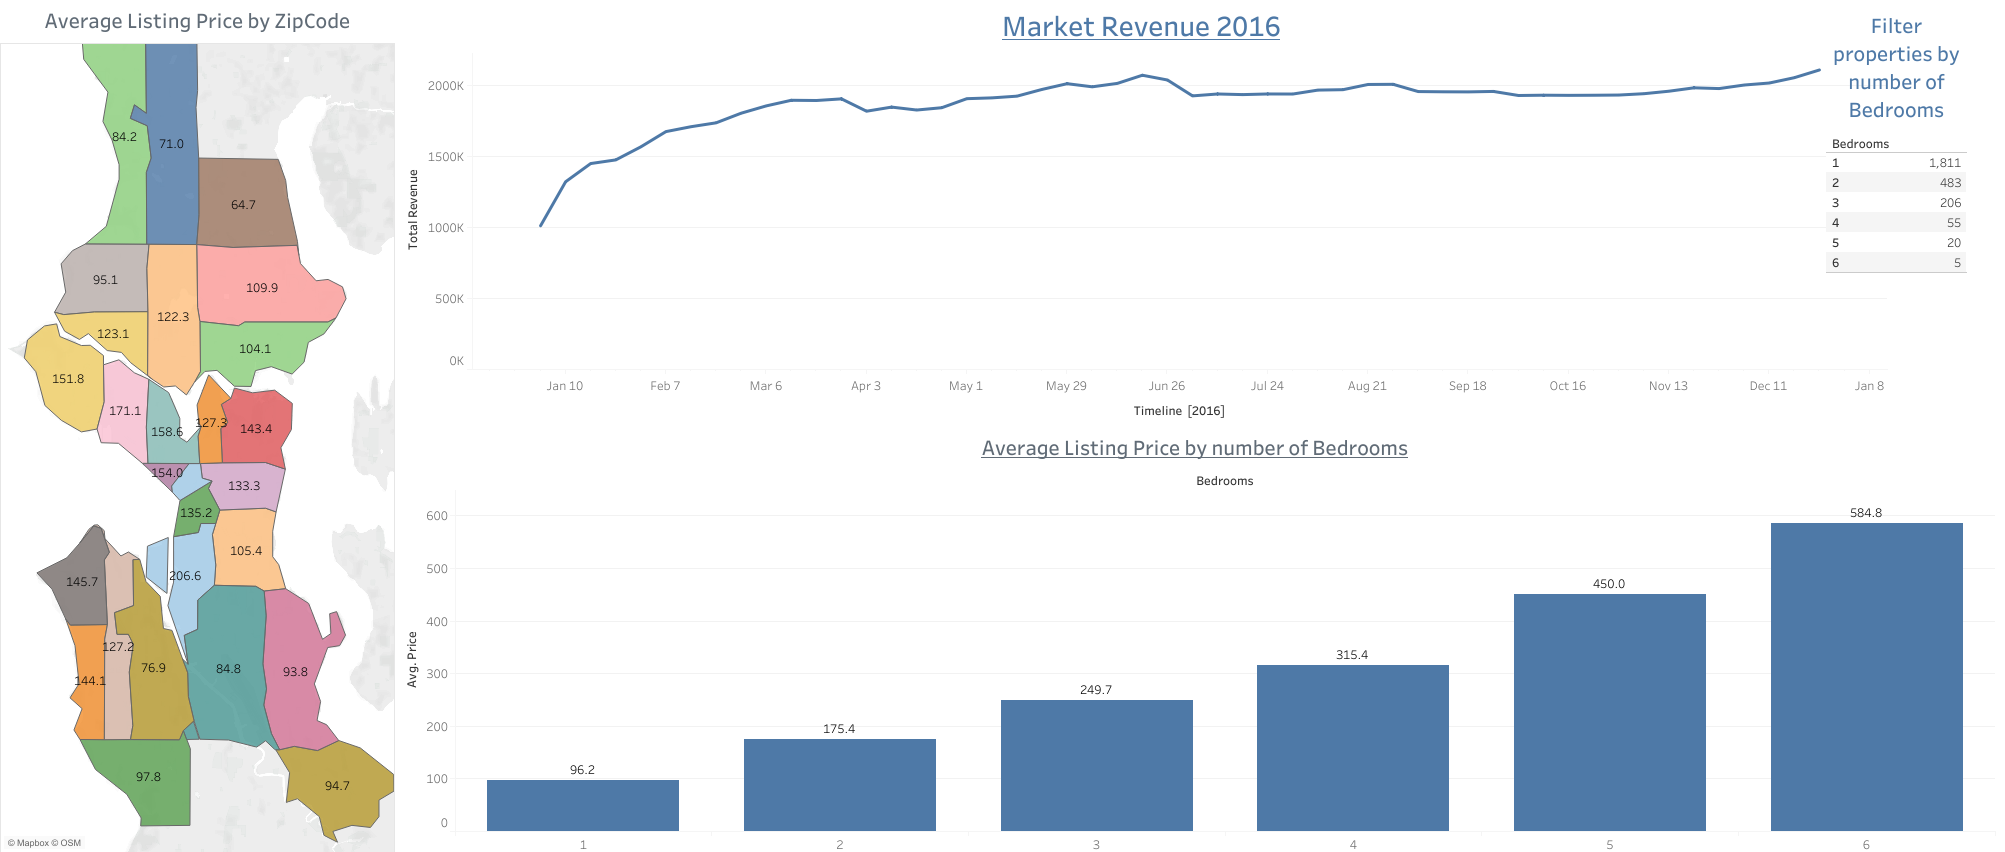
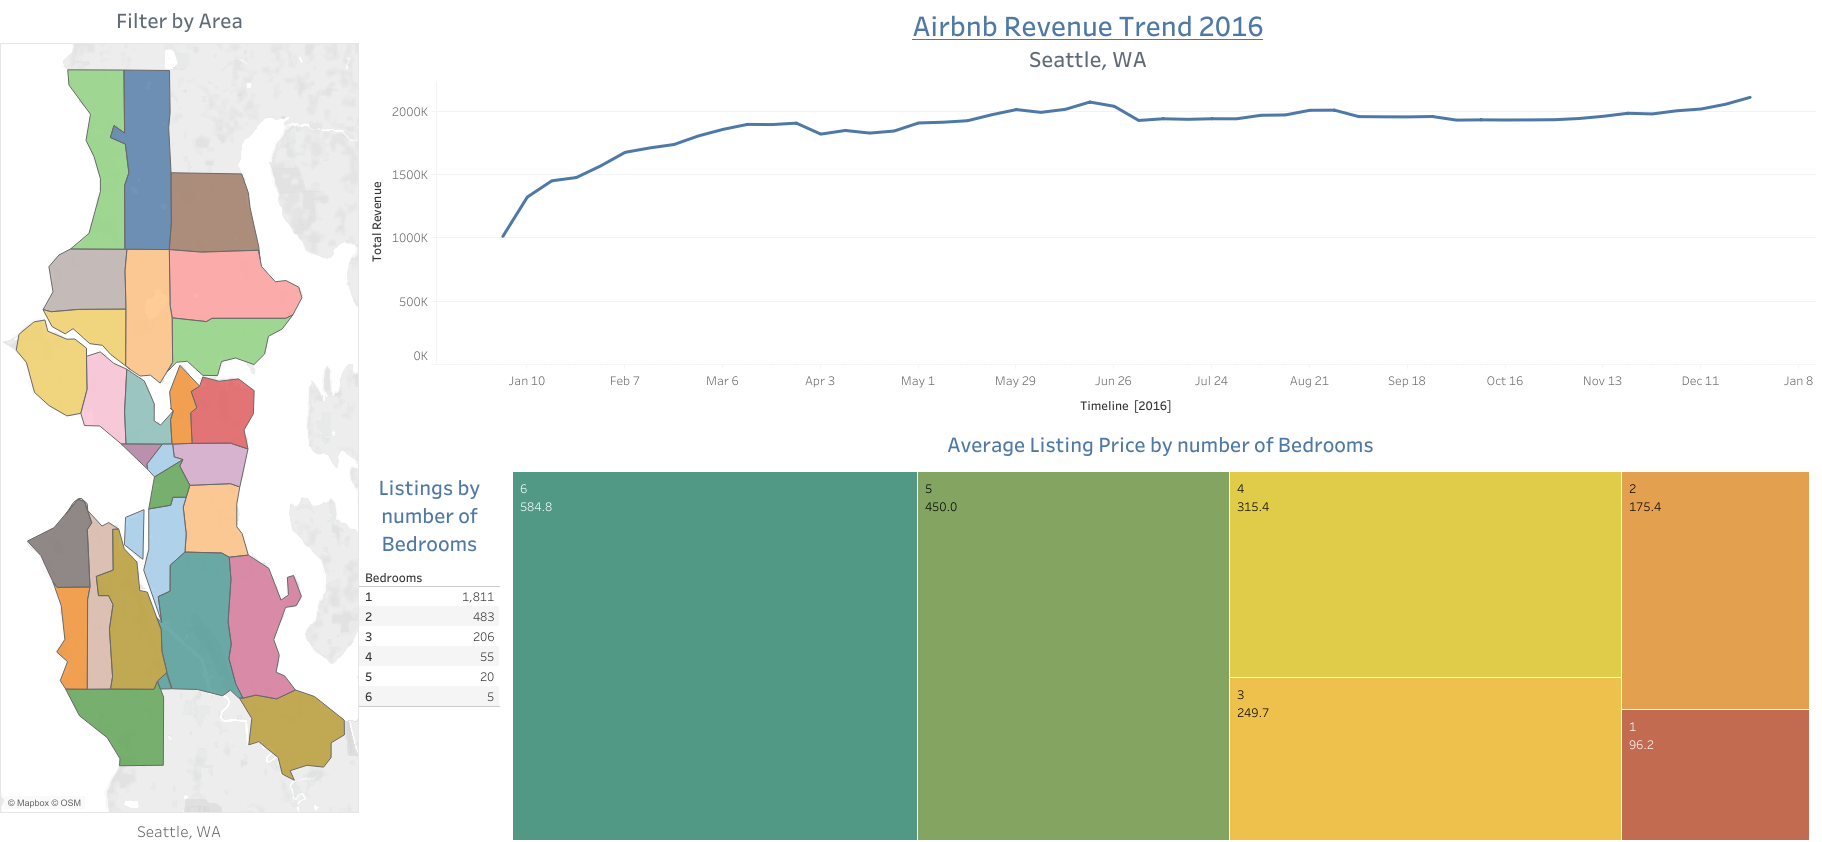
Added dataset details and updated dashboard.

diff --git a/overviews/Airbnb Market Analysis and Visualization.html b/overviews/Airbnb Market Analysis and Visualization.html
@@ -28,11 +28,12 @@
 <p> This project aims to identify optimal locations and property types for starting an Airbnb business by analyzing trends in pricing, revenue, and competition across different zip codes and time periods. The goal is to provide actionable insights to help potential hosts make informed decisions about where to invest and what types of properties are likely to be the most profitable in the Airbnb market.</p>
 
 <ul>
-    <li><a href="https://public.tableau.com/views/AirBnBanalysisbyLocationandNoofbedrooms/Dashboard1?:language=en-US&:sid=&:redirect=auth&:display_count=n&:origin=viz_share_link" , target="_blank"><b>View on Tableau Public</b></a></li>
+    <li><a href="https://public.tableau.com/views/AirBnBanalysisbyLocationandNoofbedrooms/Dashboard1?:language=en-US&:sid=&:redirect=auth&:display_count=n&:origin=viz_share_link" target="_blank"><b>View on Tableau Public</b></a></li>
 </ul>
 
-<h2><u>Data</u></h2>
-<p>Utilized a dataset consisting of three sheets:</p>
+<h2><u>Dataset</u></h2>
+<p>This project utilizes the <a href="https://www.kaggle.com/datasets/airbnb/seattle" target="_blank"><b>Seattle Airbnb Open Data</b></a>, which provides insights into the Airbnb activity in Seattle, WA. The dataset includes listings, reviews, and calendar data, offering a comprehensive view of Airbnb operations in the city. This data is part of the Airbnb Inside initiative and can be accessed for further exploration and analysis. The original source of the dataset can be found <a href="https://insideairbnb.com/get-the-data/" target="_blank">here</a>.</p>
+<p>The dataset consists of the following tables:</p>
 <ul>
     <li><b>Listings:</b> Detailed property and host information.</li>
     <li><b>Reviews:</b> User feedback and review timestamps.</li>
@@ -50,8 +51,6 @@
     <li><b>Competition Analysis:</b> We assessed the distribution of Airbnb listings by bedroom count to gauge market saturation. This analysis revealed areas with high competition, helping potential hosts identify underserved locations with fewer listings for a competitive advantage.</li>
 </ul>
 
-
-
 <h2><u>Methodology</u></h2>
 <ul>
     <li>Data was cleaned and joined using Tableau, connecting the Listings and Calendar sheets via unique listing IDs.</li>
@@ -67,13 +66,10 @@
     <li>Integrated all visualizations into a comprehensive dashboard for easy exploration and decision-making.</li>
 </ul>
 
-
-
 <h2><u>Outcome</u></h2>
 <p>This project provides actionable insights into the best-performing Airbnb locations, pricing strategies, and ideal property features, offering a data-driven foundation for starting an Airbnb business.</p>
 
-
-<img src="images/Airbnb_market_dashboard.png" alt="Airbnb Market Dashboard">
+<img src="images/Airbnb_market_dashboard.png" alt="Interactive dashboard showing Airbnb market analysis, including pricing and competition data">
 <h4 style="text-align: center;">Dashboard</h4>
 
 </body>
